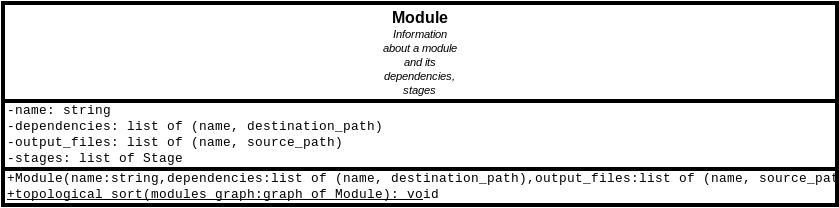
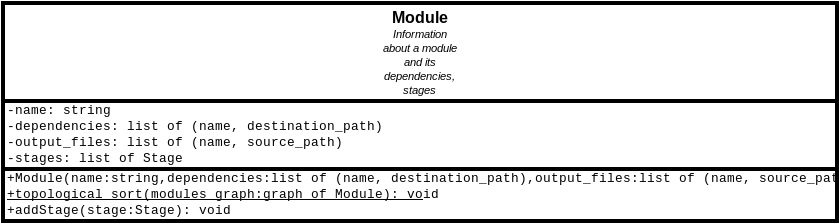
updated a Module class diagram, partly realized the Module class, added an example of a configuration.

Changed region(s): [[0.0, 0.0577, 1.0, 1.0], [0.0, 0.0, 1.0, 0.0288]]

diff --git a/src/module.py b/src/module.py
@@ -1,0 +1,41 @@
+from stage import Stage
+
+
+class Module:
+    """
+    Information about a module and its dependencies.
+
+
+    ...
+
+    Methods
+    -------
+    add_stage(stage)
+        add new stage for this module
+    """
+    def __init__(self, name, dependencies, output_files):
+        """
+        Parameters
+        ----------
+        name : str
+            module name
+        dependencies : list
+            list of dependencies of this module (pairs of dependency name and destination path)
+        output_files : list
+            list of output files and paths for searching them (pair of name and path)
+        """
+        self._name = name
+        self._dependencies = dependencies.copy()
+        self._output_files = output_files.copy()
+        self._stages = []
+
+    def add_stage(self, stage):
+        """
+        Add new stage for this module.
+
+        Parameters
+        ----------
+        stage : Stage
+            new stage
+        """
+        self._stages.append(stage)
